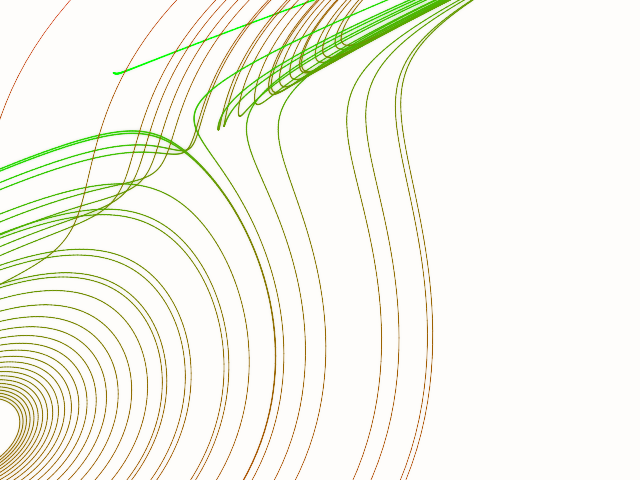
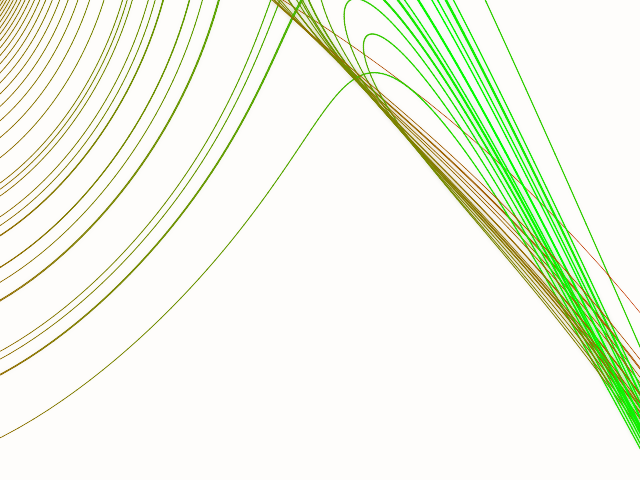
add new template and fix templates indexes

diff --git a/api/template_query_service.py b/api/template_query_service.py
@@ -19,7 +19,7 @@ templates_images_directory = "templates/images"
 
 class TemplateQueryFull(BaseModel):
     query_full: QueryFull
-    image_id: str = None
+    image_id: Optional[str] = None
 
 
 class TemplateQueryIdModel(BaseModel):
@@ -28,6 +28,7 @@ class TemplateQueryIdModel(BaseModel):
 
 async def init_template_queries_collection():
     await template_queries_collection.drop()
+    template_num = 1
     for filename in os.listdir(templates_jsons_directory):
         if filename.endswith(".json"):
             full_path = os.path.join(templates_jsons_directory, filename)
@@ -50,7 +51,10 @@ async def init_template_queries_collection():
                 await grid_out.write(image_bytes)
                 await grid_out.close()
                 template_query_full = TemplateQueryFull(query_full=query_full, image_id=str(grid_out._id))
-                await template_queries_collection.insert_one(template_query_full.model_dump())
+                template_query_full_dict = template_query_full.model_dump()
+                template_query_full_dict["_id"] = str(template_num)
+                template_num += 1
+                await template_queries_collection.insert_one(template_query_full_dict)
 
 
 async def get_image_bytes(image_id: str) -> bytes:
@@ -62,7 +66,7 @@ async def get_image_bytes(image_id: str) -> bytes:
 
 
 async def get_query_document(template_query_id: str) -> TemplateQueryFull:
-    template_query = await template_queries_collection.find_one({"_id": ObjectId(template_query_id)})
+    template_query = await template_queries_collection.find_one({"_id": template_query_id})
     template_query = TemplateQueryFull(**template_query)
     if not template_query:
         raise ValueError("Query not found")
